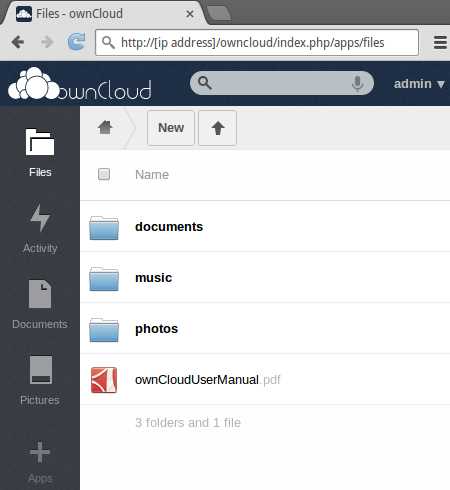
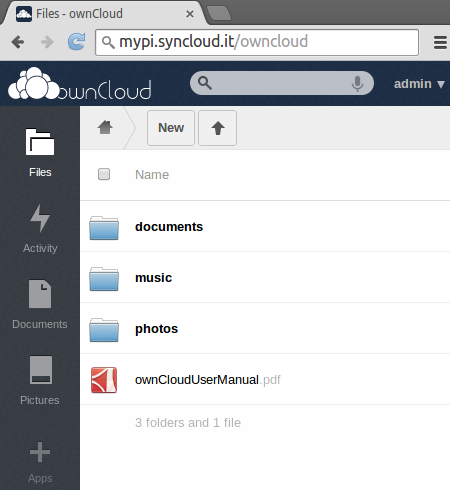
fixing check step and owncloud url

Changed region(s): [[0.2489, 0.0612, 0.8711, 0.1224]]

diff --git a/_layouts/device.html b/_layouts/device.html
@@ -24,7 +24,7 @@
 
         <div class="row">
             <div class="col-6 col-md-6 col-sm-6 col-lg-6">
-                <h3><span class="label label-success">1. Perform automated router check</span></h3>
+                <h3><span class="label label-success">1. Perform Automated Router Check</span></h3>
                 <br>
                 <p>Use <a href="https://play.google.com/store/apps/details?id=org.syncloud.android">Syncloud Android application</a> to check if your router is compatible. Check is automatically performed on first run and always available on Settings screen.</p>
 
